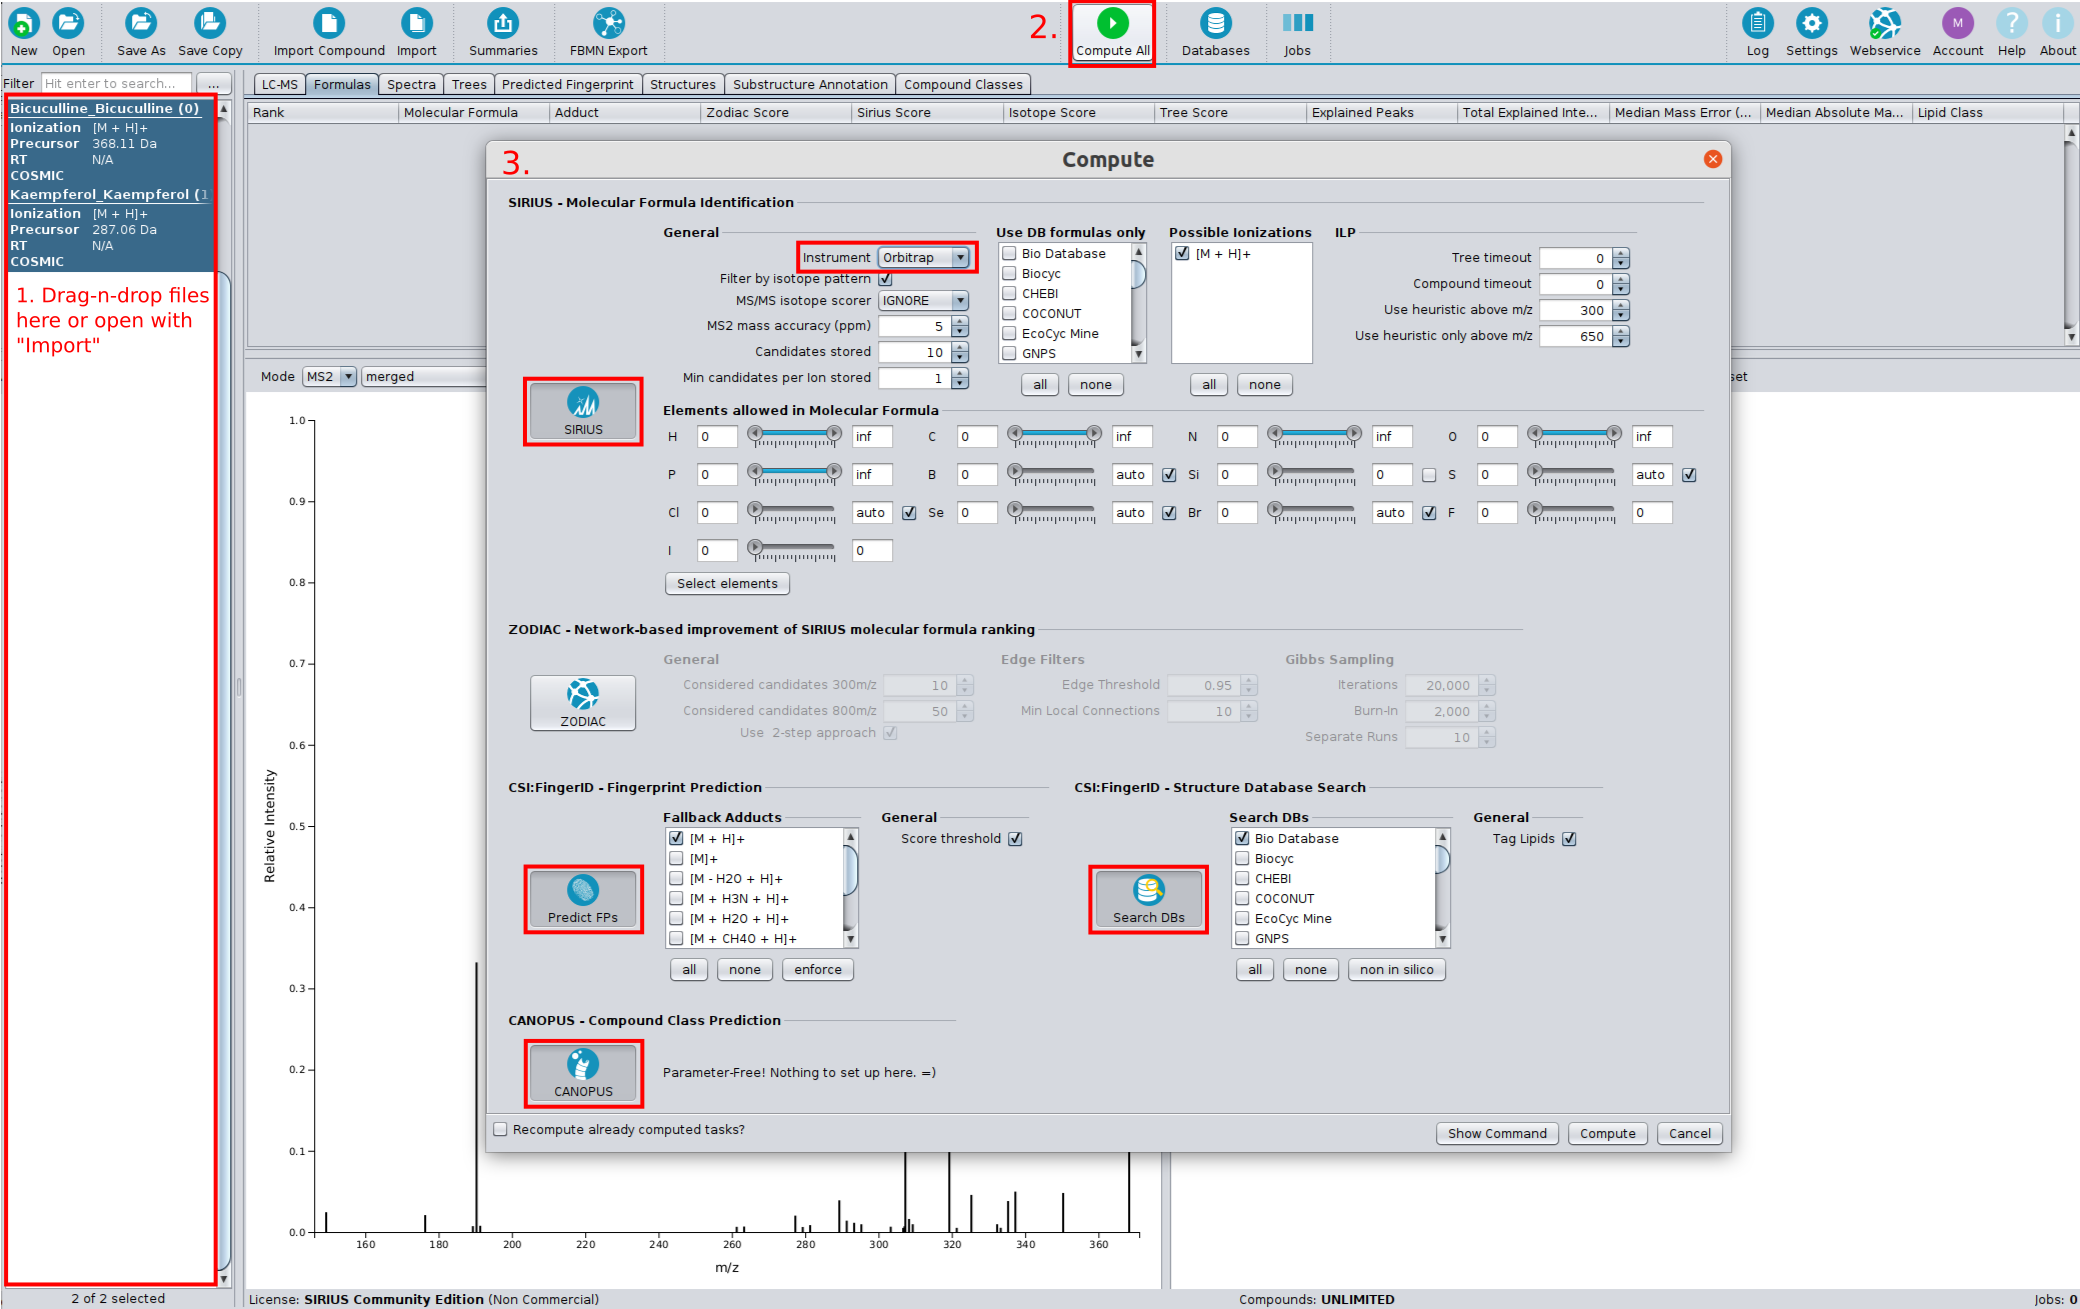
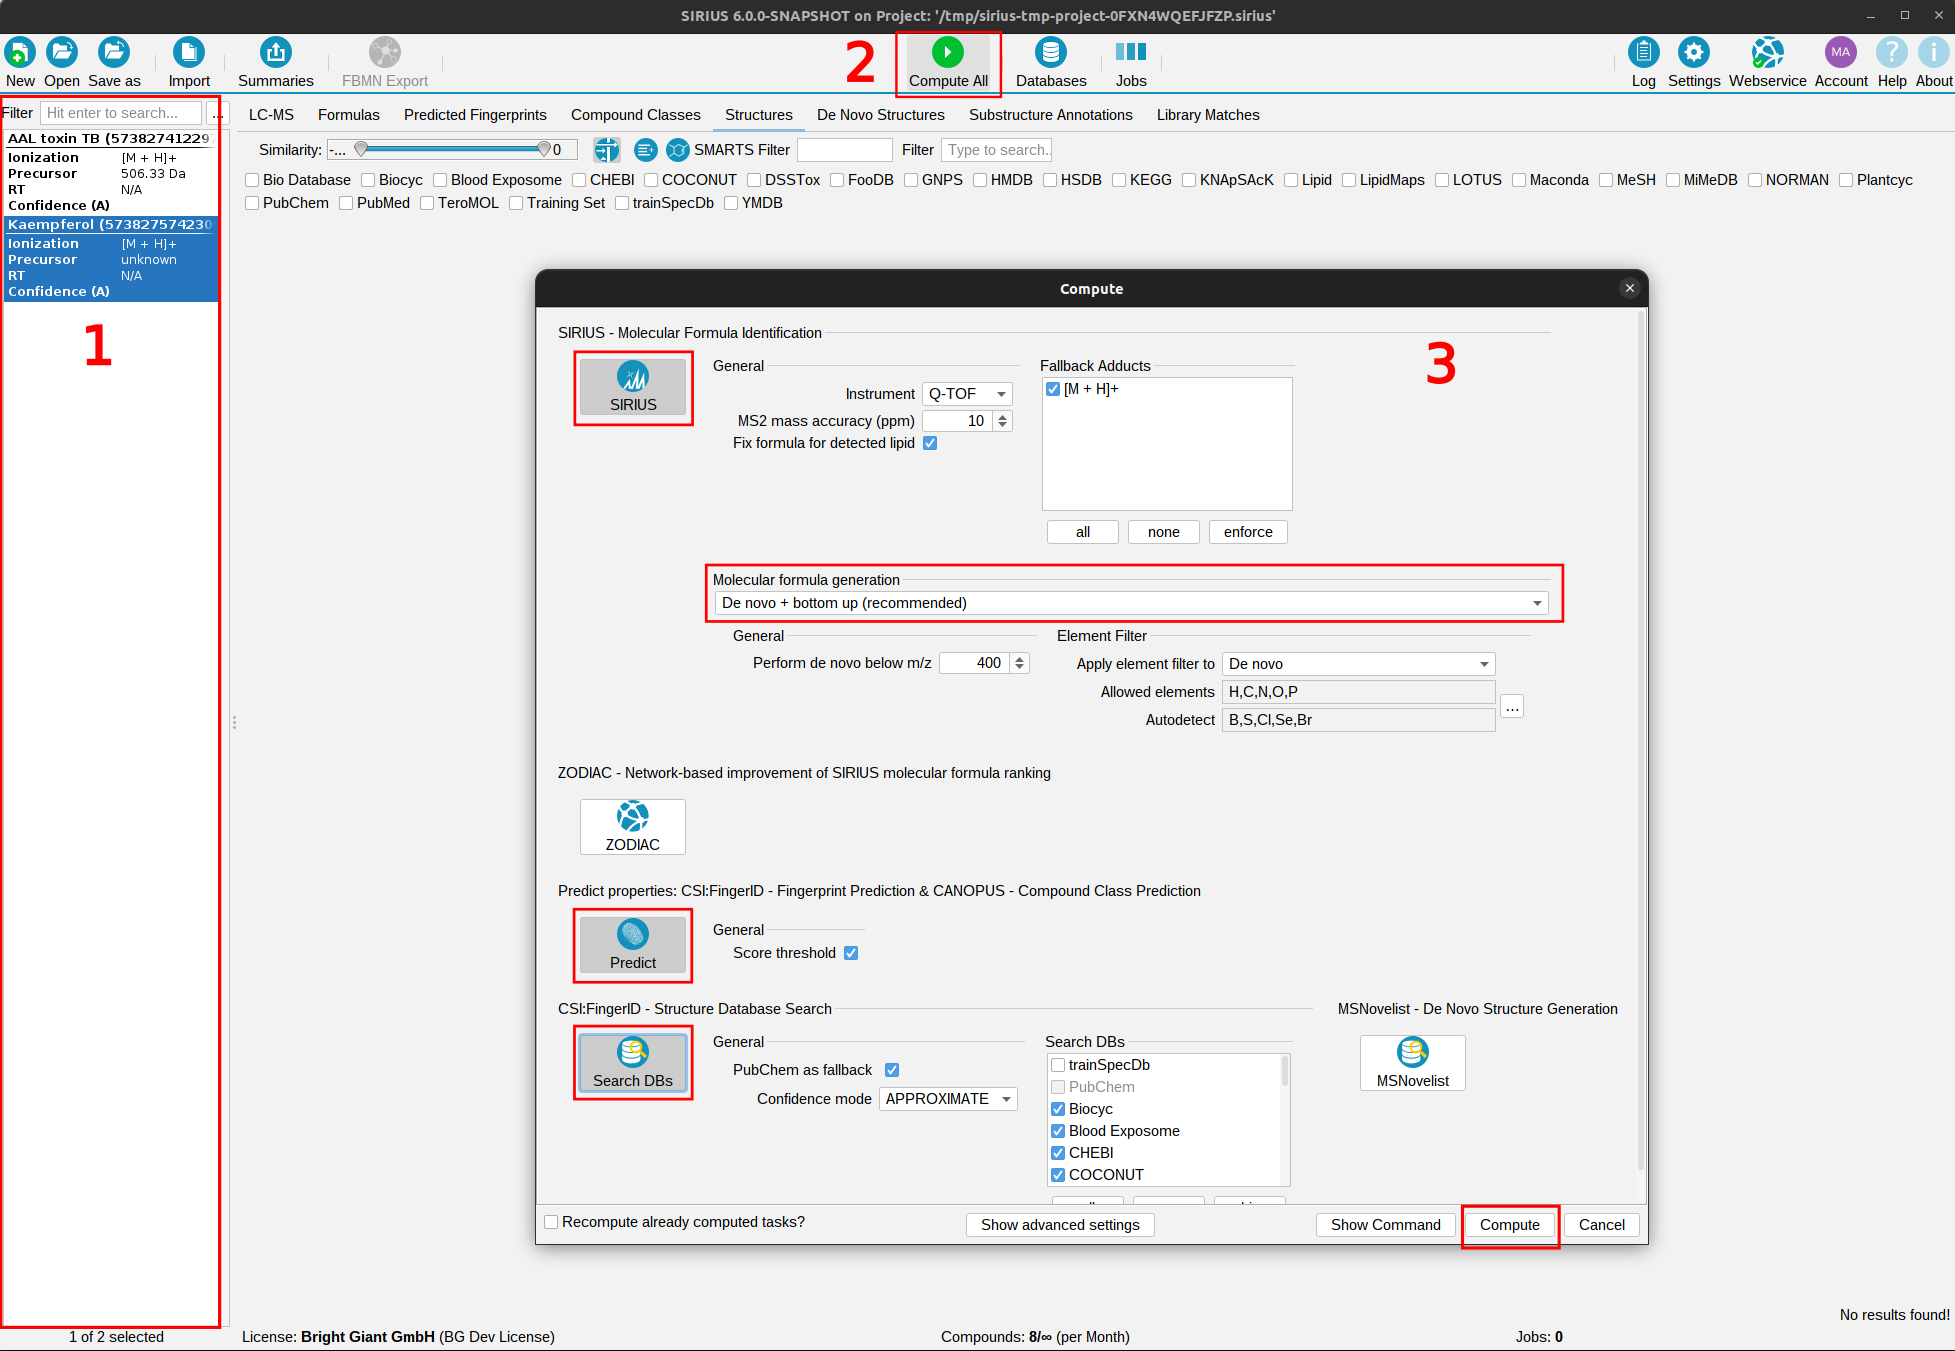
Quick start UI

diff --git a/docs/_pages/quick-start.md b/docs/_pages/quick-start.md
@@ -29,102 +29,142 @@ each having one or more mass spectra. Obviously, you can also use this workflow 
 
 2. The two compounds are now displayed in the compound list.
 
-3. Just check if the ionization and parent mass is correctly annotated.
-    You can change this values by right-clicking on the compound and then on
-    *Edit*.
+3. Check if the ionization and parent mass is correctly annotated.
 
 4. Click on the *Compute All* button.
 
 5. Select SIRIUS.
 
-6. You can now select the allowed elements, the instrument type as well
-    as the maximal allowed mass deviation. Be aware that this settings
-    will be used for all imported compounds
+6. Change the instrument type as well as the maximal allowed mass deviation. Be aware that this settings
+    will be used for all imported compounds.
+7. Check if the currently selected molecular formula search strategy aligns with your research question (TODO: link).
 
-7. Choose *Orbitrap* in the instrument field and press *OK*
-8. Select *Predict FPs* to predict the compounds' molecular fingerprints with CSI:FingerID.
-9. Select *Search DBs* to search compounds in a structure database with CSI:FingerID.
-10. Select *CANOPUS* to predict compound classes (database-free).
-11. Click *Compute*.
+8. Select *Predict Properties & CANOPUS* to predict the compounds' molecular fingerprints with CSI:FingerID as well as their compound classes with CANOPUS.
+8. Select *CSI:FingerID structure database search* to search compounds in a structure database with CSI:FingerID.
+10. Click *Compute*.
 
-12. A *gear* symbol occurs on the lower right corner of each compound.
+11. A *gear* symbol occurs on the lower right corner of each compound.
      This means that the compound is part of a computation job.
     
-13. Sometimes a computation might take a long time (e.g. for compounds
+12. Sometimes a computation might take a long time (e.g. for compounds
      with a lot of elements or very high masses). You can cancel running
      computations by selecting *Cancel All* in the toolbar.
 
-14. Inspect results with the help of the *Formulas*, *Structure* and *Compound Classes* views. 
-    Structure and compound class annotations are always based on a selected molecular formula candidate of the compound. 
+13. Inspect results with the help of the *Formulas*, *Structure* and *Compound Classes* views.
     Even more details can be found by looking at the  *Substructure Annotation* and *Predicted Fingerprint* views.  
 
-### Working with peak list files (not recommended default)
+[//]: # (### Working with peak list files &#40;not recommended default&#41;)
 
-SIRIUS’s "Single mode" corresponds to analyzing a single compound with
-one or more mass spectra as individual peak list files. 
-This is usually not the recommended format as it misses relevant information that may need to be specified manually.   
+[//]: # ()
+[//]: # (SIRIUS’s "Single mode" corresponds to analyzing a single compound with)
 
-#### Example 1: Chelidonine
+[//]: # (one or more mass spectra as individual peak list files. )
 
-1.  Click the *Import Compound* Button in the Toolbar to open the importer window.
+[//]: # (This is usually not the recommended format as it misses relevant information that may need to be specified manually.   )
 
-1.  Move each of the three files `demo-data/txt/chelidonine_ms.txt`, `demo-data/txt/chelidonine_msms1.txt`
-    and `demo-data/txt/chelidonine_msms2.txt` (one after another) from the demo data via Drag and Drop into
-    the importer window.
+[//]: # ()
+[//]: # (#### Example 1: Chelidonine)
 
-1.  The following dialog offers you to select the columns for mass and
-    intensity values. Just press *Ok* as the default values are already
-    correct.
+[//]: # ()
+[//]: # (1.  Click the *Import Compound* Button in the Toolbar to open the importer window.)
 
-1.  You see the load dialog with three spectra. The first spectrum is
-    wrongly annotated as *MS/MS* spectrum but should be an *MS1*
-    spectrum instead. Just select *MS 1* in the drop down list labeled
-    with *ms level*.
+[//]: # ()
+[//]: # (1.  Move each of the three files `demo-data/txt/chelidonine_ms.txt`, `demo-data/txt/chelidonine_msms1.txt`)
 
-1.  All other options are fine. However, you might want to choose a more
-    memorizable name in the *compound name* field.
+[//]: # (    and `demo-data/txt/chelidonine_msms2.txt` &#40;one after another&#41; from the demo data via Drag and Drop into)
 
-1.  Press the *OK* button. The newly imported compound should now appear
-    in your compound list on the left side.
+[//]: # (    the importer window.)
 
-1.  Choose the compound, right-click on it and press *Compute*.
+[//]: # ()
+[//]: # (1.  The following dialog offers you to select the columns for mass and)
 
-1.  Select SIRIUS. All other options should be fine. Just check that
-    the correct parent mass is chosen. You might want to add Chlorine or
-    Fluorine to the set of considered elements. Furthermore, you can
-    change the instrument type to *Orbitrap*. Then click *Compute*.
+[//]: # (    intensity values. Just press *Ok* as the default values are already)
 
-1.  Just look into the candidate list: The first molecular formula has a
-    quite large score. Furthermore, the second molecular formula has a
-    much lower score. This is a good indication that the identification
-    is correct. However, you can take a look at the fragmentation tree:
-    Do the peak annotations look correct? Take a look at the spectrum
-    view: Are all high intensive peaks explained?
+[//]: # (    correct.)
 
-1.  To write the results into a summary file press the *Summaries* button.
-    You can find the result list `formula_candidates.tsv` at the compound level
-    in the [project-space]({{ "/io/#sirius-project-space" | relative_url }}) directory.
+[//]: # ()
+[//]: # (1.  You see the load dialog with three spectra. The first spectrum is)
 
-#### Example 2: Identifying a CASMI challenge
+[//]: # (    wrongly annotated as *MS/MS* spectrum but should be an *MS1*)
 
-1.  Download the files <http://casmi-contest.org/2014/Challenge2014/Challenge1/1_MS.txt>
-    and <http://casmi-contest.org/2014/Challenge2014/Challenge1/1_MSMS.txt>
+[//]: # (    spectrum instead. Just select *MS 1* in the drop down list labeled)
 
-1.  Click the *Import Compound* Button in the Toolbar to open the importer window.
+[//]: # (    with *ms level*.)
 
-1.  Move these files via Drag and Drop into the importer window (one after another).
+[//]: # ()
+[//]: # (1.  All other options are fine. However, you might want to choose a more)
 
-1.  Change the ms level of the first file into *Ms 1*
+[//]: # (    memorizable name in the *compound name* field.)
 
-1.  Click on *OK*
+[//]: # ()
+[//]: # (1.  Press the *OK* button. The newly imported compound should now appear)
 
-1.  Click on *Compute* in the right-click context menu of the imported
-    compound (or *double click*).
+[//]: # (    in your compound list on the left side.)
 
-1.  Select SIRIUS and choose *Q-TOF* as instrument and press the *OK* button
+[//]: # ()
+[//]: # (1.  Choose the compound, right-click on it and press *Compute*.)
 
-1.  *C23H46NO7P* should be suggested as number one hit in the candidate
-    list
+[//]: # ()
+[//]: # (1.  Select SIRIUS. All other options should be fine. Just check that)
+
+[//]: # (    the correct parent mass is chosen. You might want to add Chlorine or)
+
+[//]: # (    Fluorine to the set of considered elements. Furthermore, you can)
+
+[//]: # (    change the instrument type to *Orbitrap*. Then click *Compute*.)
+
+[//]: # ()
+[//]: # (1.  Just look into the candidate list: The first molecular formula has a)
+
+[//]: # (    quite large score. Furthermore, the second molecular formula has a)
+
+[//]: # (    much lower score. This is a good indication that the identification)
+
+[//]: # (    is correct. However, you can take a look at the fragmentation tree:)
+
+[//]: # (    Do the peak annotations look correct? Take a look at the spectrum)
+
+[//]: # (    view: Are all high intensive peaks explained?)
+
+[//]: # ()
+[//]: # (1.  To write the results into a summary file press the *Summaries* button.)
+
+[//]: # (    You can find the result list `formula_candidates.tsv` at the compound level)
+
+[//]: # (    in the [project-space]&#40;{{ "/io/#sirius-project-space" | relative_url }}&#41; directory.)
+
+[//]: # ()
+[//]: # (#### Example 2: Identifying a CASMI challenge)
+
+[//]: # ()
+[//]: # (1.  Download the files <http://casmi-contest.org/2014/Challenge2014/Challenge1/1_MS.txt>)
+
+[//]: # (    and <http://casmi-contest.org/2014/Challenge2014/Challenge1/1_MSMS.txt>)
+
+[//]: # ()
+[//]: # (1.  Click the *Import Compound* Button in the Toolbar to open the importer window.)
+
+[//]: # ()
+[//]: # (1.  Move these files via Drag and Drop into the importer window &#40;one after another&#41;.)
+
+[//]: # ()
+[//]: # (1.  Change the ms level of the first file into *Ms 1*)
+
+[//]: # ()
+[//]: # (1.  Click on *OK*)
+
+[//]: # ()
+[//]: # (1.  Click on *Compute* in the right-click context menu of the imported)
+
+[//]: # (    compound &#40;or *double click*&#41;.)
+
+[//]: # ()
+[//]: # (1.  Select SIRIUS and choose *Q-TOF* as instrument and press the *OK* button)
+
+[//]: # ()
+[//]: # (1.  *C23H46NO7P* should be suggested as number one hit in the candidate)
+
+[//]: # (    list)
 
 ## Command Line Interface
 

diff --git a/docs/_pages/gui.md b/docs/_pages/gui.md
@@ -115,6 +115,8 @@ considered for specific use cases and/or for setting limits to computation times
   <figcaption>Batch compute dialog.</figcaption>
 </figure>
 
+TODO: Fix missing labels in image
+
 The compute panel is split into five subtools: SIRIUS molecular formula annotation (1), ZODIAC (2), CSI:FingerID fingerprint prediction with CANOPUS (3), CSI:FingerID structure
 database search (4) and MSNovelist (5). Starting from SIRIUS 6, CANOPUS (3) is automatically performed whenever a fingerprint is predicted and does not need to be enabled 
 separately anymore. Subtools can be selected individually or combined, please note that the selection together with potentially existing results needs to constitute a valid SIRIUS workflow.
@@ -128,7 +130,6 @@ To easily transition the current workflow selections to a CLI, one can use the "
 
 If imported spectral libraries are present, SIRIUS will automatically perform spectral matching against those libraries. Currently, this always happens in the background and no parameters
 need to be set. See TODO link and make in prereq.
-
 
 
 ### Identifying molecular formulas with SIRIUS (1)
@@ -282,7 +283,7 @@ Click [here](https://bio.informatik.uni-jena.de/software/zodiac/) to visit the Z
   <figcaption>Advanced parameters for ZODIAC molecular formula annotation.</figcaption>
 </figure>
 
-(1)
+(1)TODO
 (2)
 (3)
 (4)
@@ -337,6 +338,16 @@ hit in PubChem is more confident than a hit in the selected databases.
 was selected earlier in the workflow, selected databases will reflect that selection. You can return to default by clicking "bio". If any custom
 databases exist, they can be selected here as well.
 
+
+### Generating de novo structure candidates with MSNovelist (5)
+
+Sometimes it might be necessary to go beyond the limits of structure database search. Together with the predicted fingerprint, compound classes and custom databases,
+SIRIUS 6 offers de novo generation of candidate structures through MSNovelist. See TODO make and link in prerequisites for more details on the underlying science.
+
+Please note that the likelihood of any de novo generation method performing well for actual novel compounds is very low. Results should be seen as suggestions or starting points
+for semi-manual analysis of compounds that cannot be elucidated otherwise. 
+
+**MSNovelist will slow your SIRIUS work flow down significantly, use with caution.**
 
 #### Import of custom structure and spectra databases
 

diff --git a/docs/_pages/changelog.md b/docs/_pages/changelog.md
@@ -3,6 +3,9 @@ permalink: /changelog/
 title: "Changelog"
 ---
 
+### SIRIUS 6
+
+
 ### SIRIUS 5
 #### 5.8.4 (2023-11-04)
 - fixed problem with summary files writing of CANOPUS predictions
